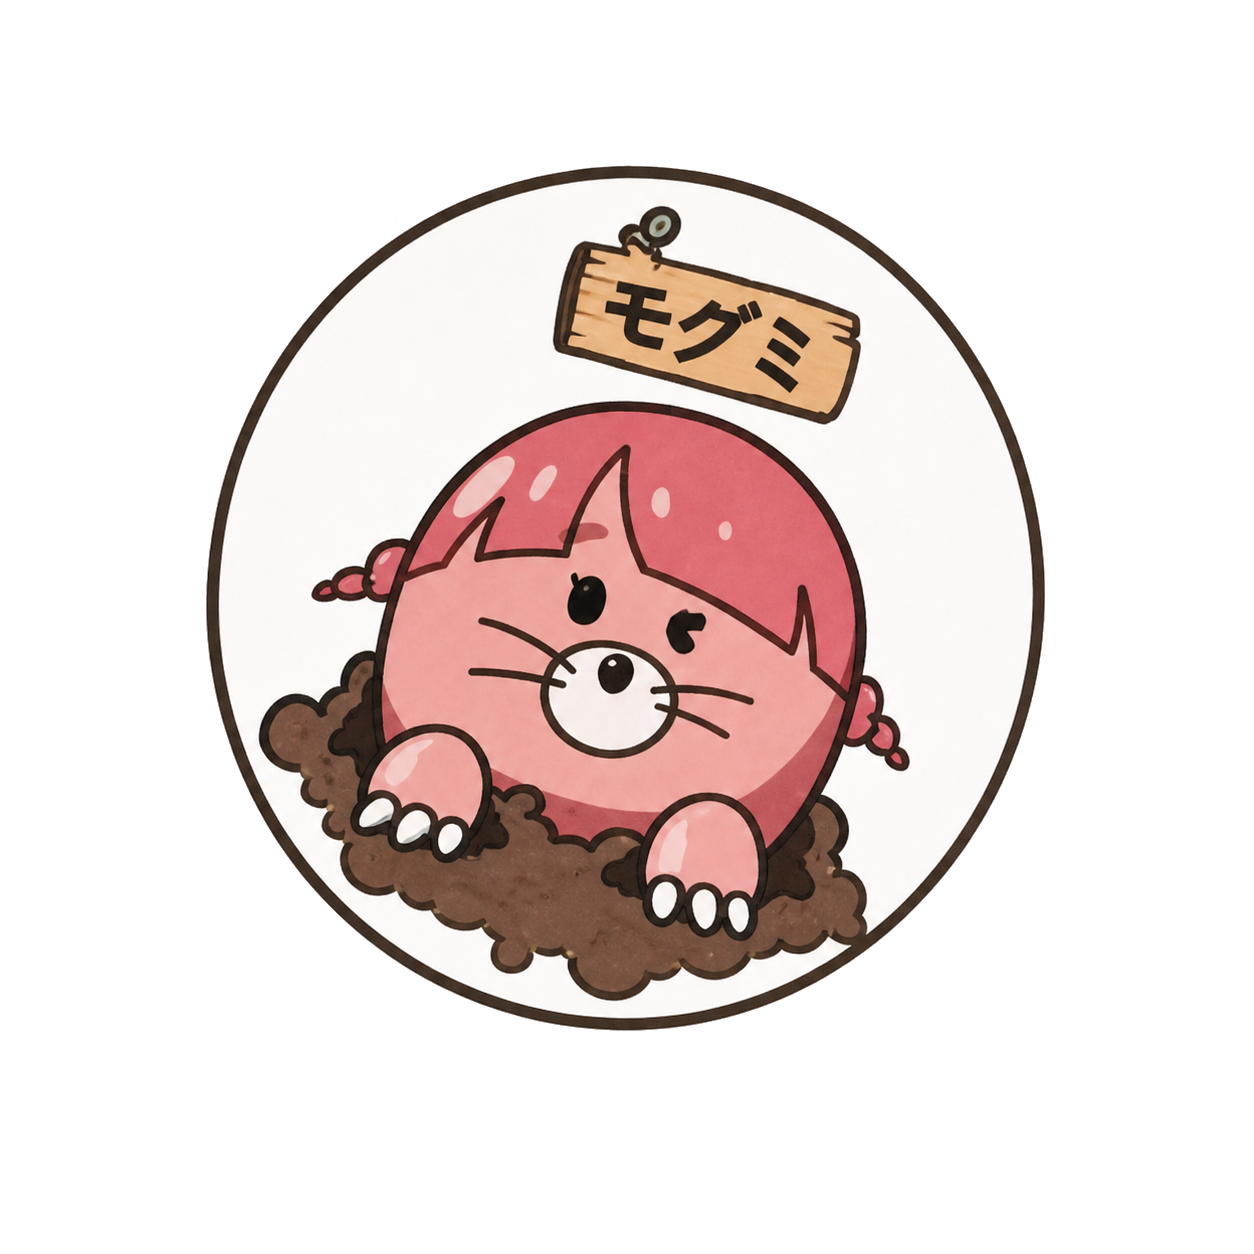
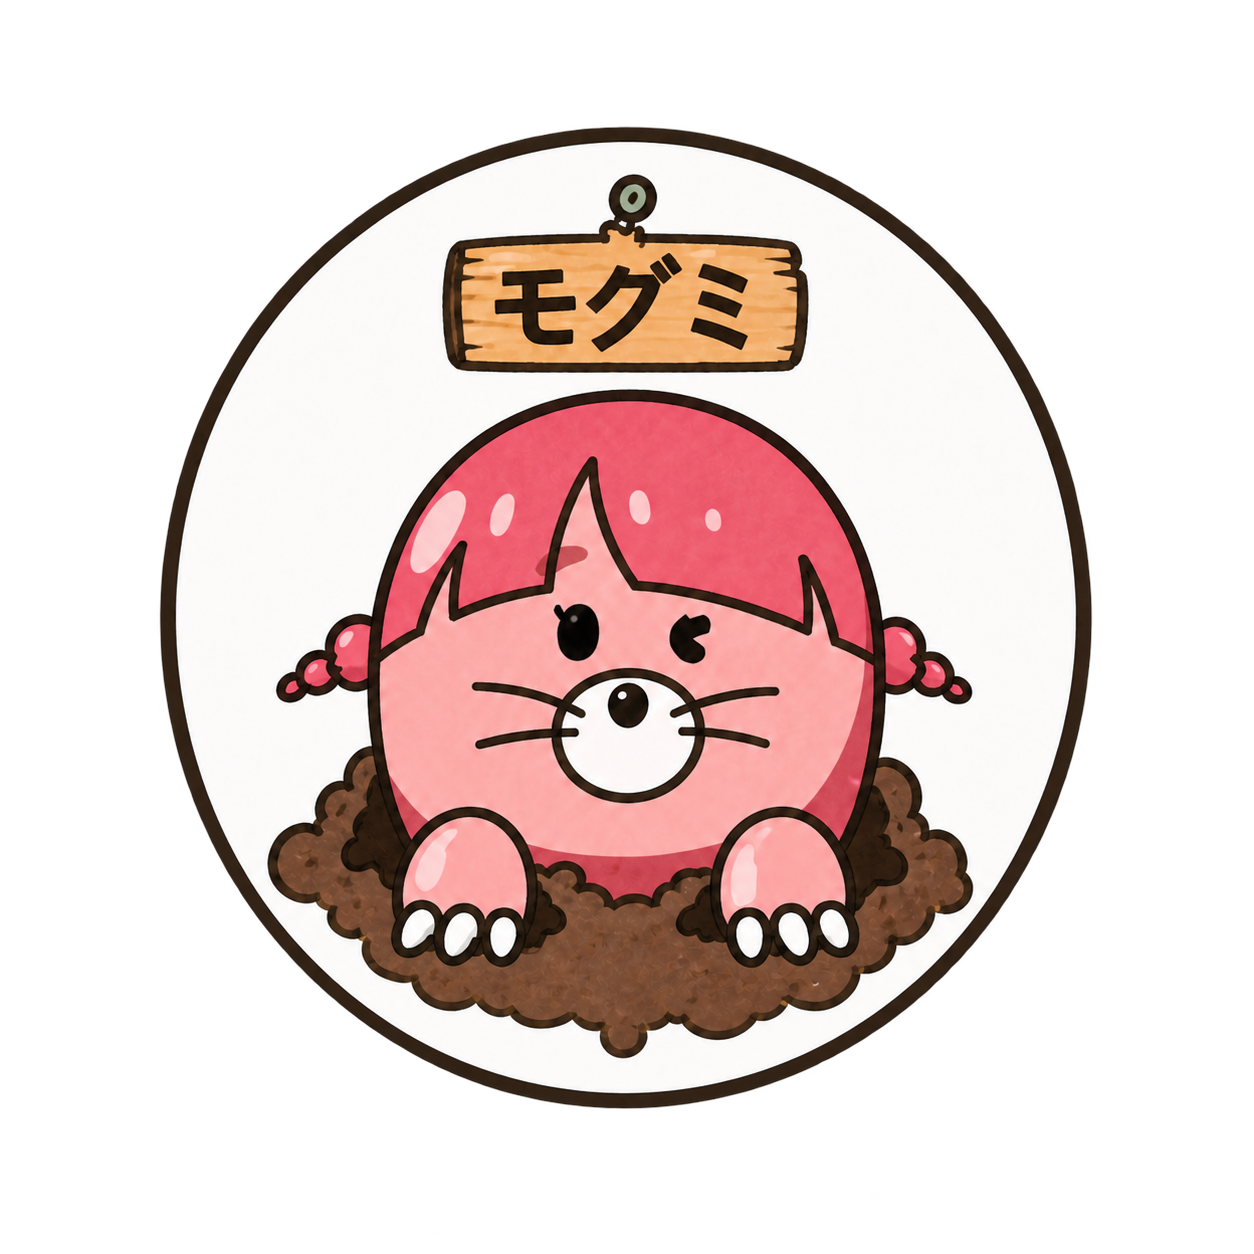
モグカとモグミのイラスト傾きを補正

Changed region(s): [[0.1244, 0.0933, 0.8708, 0.9019], [0.5598, 0.4043, 0.5909, 0.4354]]

diff --git a/androidApp/src/main/kotlin/com/moguru/game/android/GameScreen.kt b/androidApp/src/main/kotlin/com/moguru/game/android/GameScreen.kt
@@ -2852,8 +2852,8 @@ private fun Rotation.nextClockwise(): Rotation =
 private fun playerImageSourceRect(playerId: Int): SourceImageRect = when (playerId) {
     0 -> SourceImageRect(left = 264, top = 216, width = 726, height = 751)
     1 -> SourceImageRect(left = 196, top = 145, width = 856, height = 890)
-    2 -> SourceImageRect(left = 206, top = 165, width = 839, height = 866)
-    else -> SourceImageRect(left = 252, top = 202, width = 768, height = 773)
+    2 -> SourceImageRect(left = 159, top = 126, width = 934, height = 983)
+    else -> SourceImageRect(left = 202, top = 158, width = 847, height = 882)
 }
 
 private const val BOARD_SOURCE_WIDTH = 1086f
